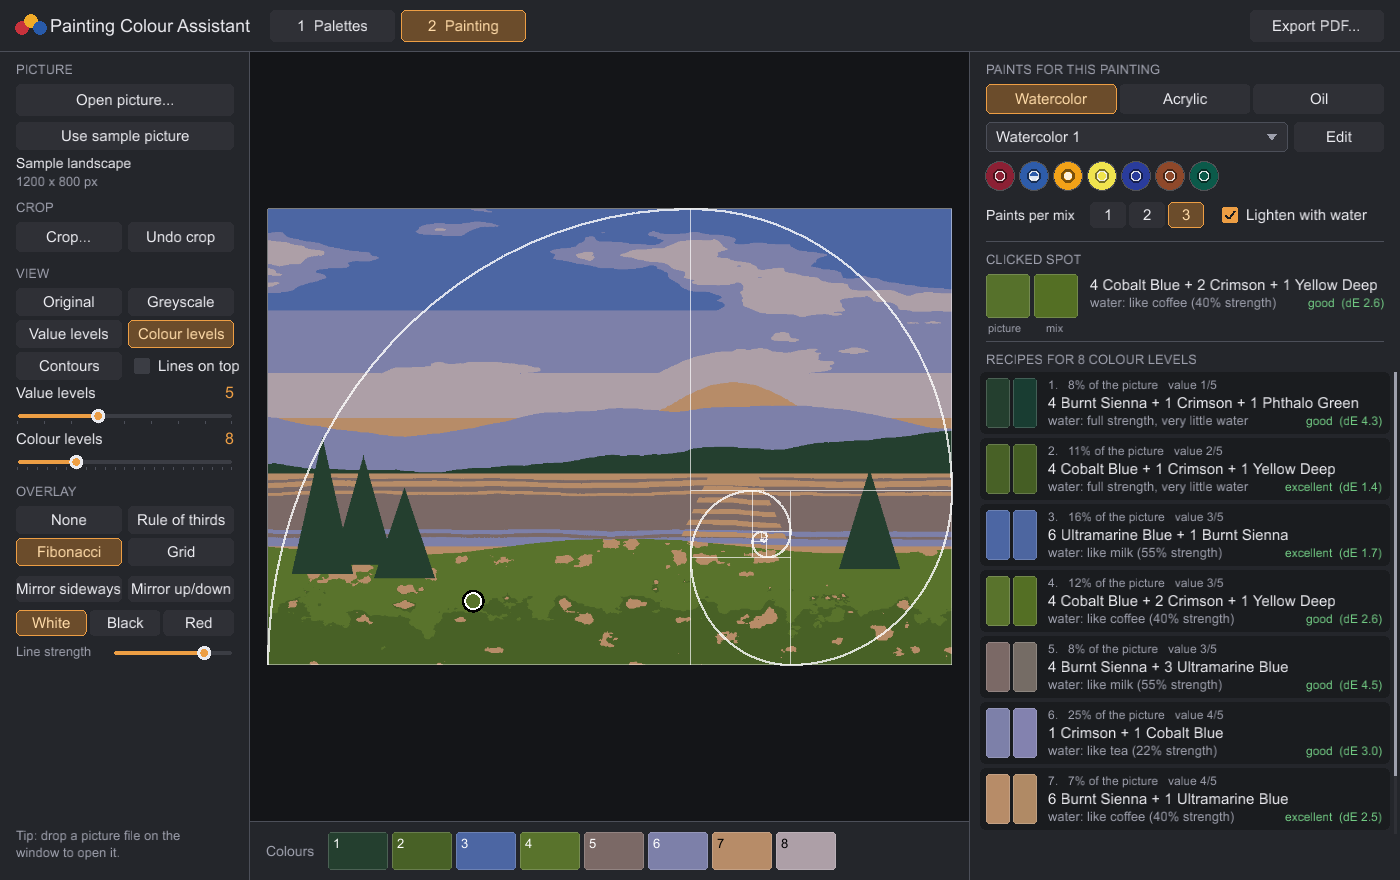
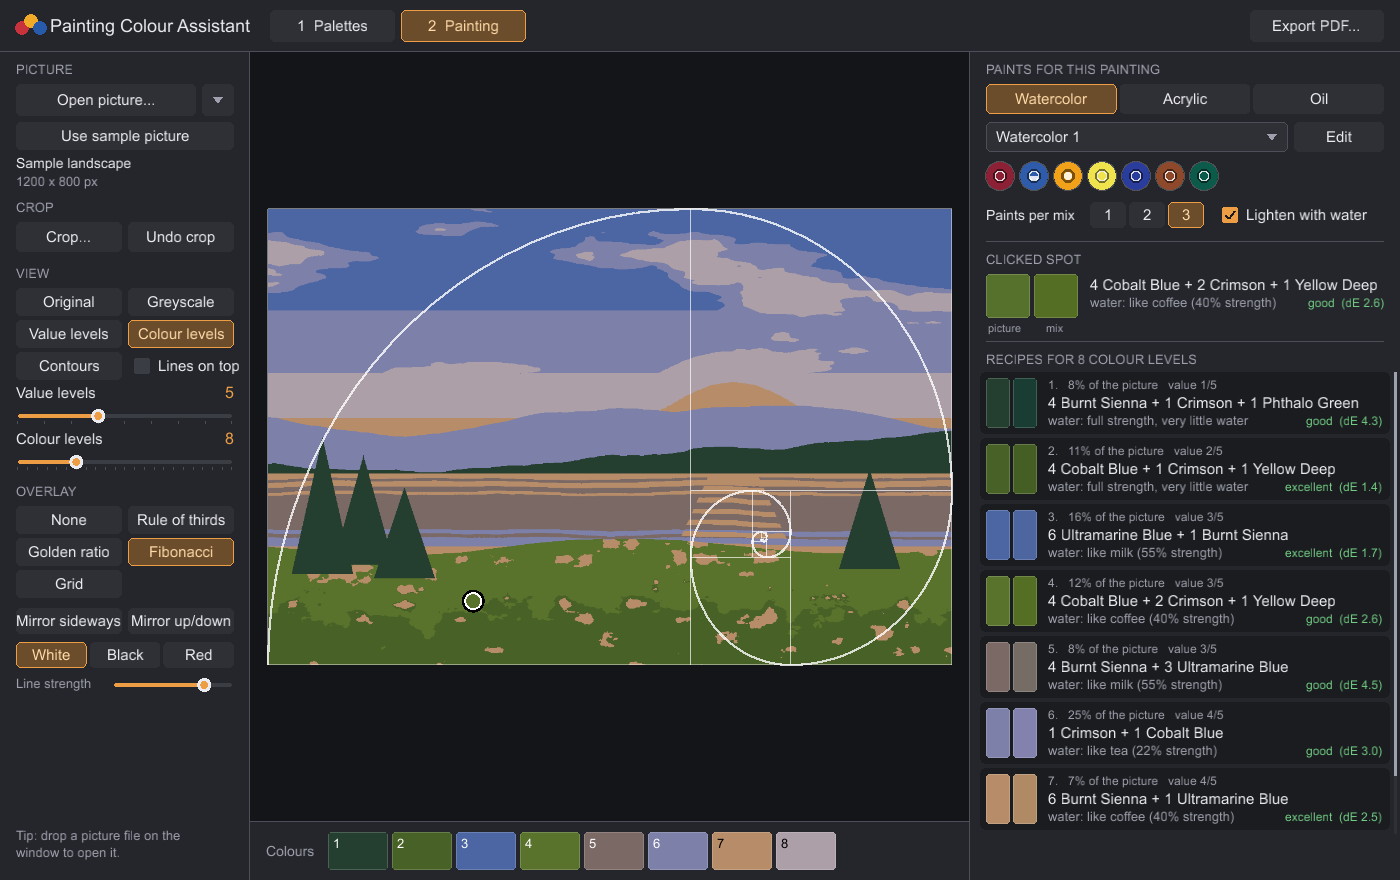
Update handoff documentation and state revision for Overlay::Golden feature
- Incremented state revision to 8.
- Updated handoff details to reflect the addition of Overlay::Golden, including phi grid and new button configurations.
- Added new journal entries for 2026-11-18 and created a new journal file for 2026-11-19 documenting UI interactions and tool calls.
- Enhanced documentation in MECHANICS.md, mechanics.json, README.md, and CLAUDE.md to include details about the new overlay feature.

Changed region(s): [[0.0, 0.6136, 0.1843, 0.7977], [0.0307, 0.092, 0.1229, 0.1227]]

diff --git a/app/src/grid.rs b/app/src/grid.rs
@@ -1,4 +1,5 @@
-//! Composition overlays drawn over the picture: rule of thirds, Fibonacci spiral, square grid.
+//! Composition overlays drawn over the picture: rule of thirds, golden ratio grid,
+//! Fibonacci spiral, square grid.
 
 use macroquad::prelude::*;
 use serde::{Deserialize, Serialize};
@@ -9,10 +10,13 @@ pub enum Overlay {
     Thirds,
     Fibonacci,
     Grid,
+    /// Phi grid: lines at 1/phi^2 and 1/phi of the width and height.
+    Golden,
 }
 
 impl Overlay {
-    pub const ALL: [Overlay; 4] = [Overlay::None, Overlay::Thirds, Overlay::Fibonacci, Overlay::Grid];
+    /// Order of the overlay buttons.
+    pub const ALL: [Overlay; 5] = [Overlay::None, Overlay::Thirds, Overlay::Golden, Overlay::Fibonacci, Overlay::Grid];
 }
 
 #[derive(Clone, Copy, PartialEq, Debug, Serialize, Deserialize)]
@@ -59,6 +63,21 @@ pub fn draw_overlay(r: Rect, s: &OverlaySettings, label: &dyn Fn(&str, f32, f32,
                 for j in 1..3 {
                     let p = vec2(r.x + r.w * i as f32 / 3.0, r.y + r.h * j as f32 / 3.0);
                     draw_circle_lines(p.x, p.y, 7.0, 1.5, c);
+                }
+            }
+        }
+        Overlay::Golden => {
+            // 0.382 and 0.618: the picture split so the larger part relates to the smaller as the whole to the larger
+            let cuts = [1.0 - 1.0 / PHI, 1.0 / PHI];
+            for t in cuts {
+                let x = r.x + r.w * t;
+                let y = r.y + r.h * t;
+                line(x, r.y, x, r.y + r.h, 1.5, c);
+                line(r.x, y, r.x + r.w, y, 1.5, c);
+            }
+            for tx in cuts {
+                for ty in cuts {
+                    draw_circle_lines(r.x + r.w * tx, r.y + r.h * ty, 7.0, 1.5, c);
                 }
             }
         }

diff --git a/app/src/app/painting_view.rs b/app/src/app/painting_view.rs
@@ -139,15 +139,24 @@ impl App {
 
         ui.header("OVERLAY", x, y);
         y += 10.0;
-        let ids = ["overlay_none", "overlay_thirds", "overlay_fib", "overlay_grid"];
-        let short = ["None", "Rule of thirds", "Fibonacci", "Grid"];
+        let ids = ["overlay_none", "overlay_thirds", "overlay_golden", "overlay_fib", "overlay_grid"];
+        let short = ["None", "Rule of thirds", "Golden ratio", "Fibonacci", "Grid"];
         for (i, k) in Overlay::ALL.iter().enumerate() {
             let br = Rect::new(x + (i % 2) as f32 * (half + 6.0), y + (i / 2) as f32 * 32.0, half, 28.0);
             if ui.button_ex(ids[i], br, short[i], self.overlay.kind == *k) {
                 self.overlay.kind = *k;
             }
+            if *k == Overlay::Golden {
+                ui.tooltip("overlay_golden_tip", br, || {
+                    vec![
+                        ("Golden ratio grid (phi grid)".to_string(), TEXT),
+                        ("Lines at 38.2% and 61.8% of the width and height:".to_string(), MUTED),
+                        ("a tighter, calmer placement than the rule of thirds.".to_string(), MUTED),
+                    ]
+                });
+            }
         }
-        y += 70.0;
+        y += 102.0;
         match self.overlay.kind {
             Overlay::Grid => {
                 ui.text("Cells on the long side", x, y + 4.0, 14.0, TEXT);

diff --git a/app/src/selftest.rs b/app/src/selftest.rs
@@ -165,6 +165,12 @@ impl SelfTest {
             let ok = app.overlay.kind == Overlay::Fibonacci && app.overlay_segments > 20;
             res(r, "overlay_fibonacci", ok, format!("Fibonacci spiral drawn with {} line segments", app.overlay_segments));
         })));
+        q.push_back(Click("overlay_golden"));
+        q.push_back(Wait(2));
+        q.push_back(Check(Box::new(|app, _ui, r| {
+            let ok = app.overlay.kind == Overlay::Golden && app.overlay_segments == 4;
+            res(r, "overlay_golden", ok, format!("golden ratio grid drawn with {} lines at 38.2% and 61.8%", app.overlay_segments));
+        })));
         q.push_back(Click("overlay_grid"));
         q.push_back(Wait(2));
         q.push_back(Check(Box::new(|app, _ui, r| {

diff --git a/investigation.cany/investigation/handoff.md b/investigation.cany/investigation/handoff.md
@@ -1,3 +1,3 @@
 # Handoff
 
-Turns so far: first build; contours view + "Lines on top"; value-box percentage caption/tooltip; now Export PDF. New: src/pdf.rs (hand-written PDF writer: JPEG DCTDecode images, rects/circles/lines, Helvetica/Helvetica-Bold with AFM widths, WinAnsi text), src/app/export.rs (A4 brochure: cover with original + settings; value study + scale + contours same size; palette table + 1:1 mixing chart + lightening steps; colour-levels picture + recipe per level with chosen paints-per-mix + clicked spot). Top-bar button id export_pdf uses rfd save dialog (name + folder, .pdf appended), App::export_path_override for self-test (temp dir). Self-test step export_pdf (14/14 pass). Rendered pages checked via swift PDFKit script (/tmp/pdfpages/render.swift; poppler not installed). km describe_lighten: load>=0.9 -> "water: full strength, very little water". Docs updated: MECHANICS.md, mechanics.json, README.md, CLAUDE.md (architecture line). Not committed. The save dialog itself wasn't exercised by hand.
+Latest turn: added Overlay::Golden (phi grid, lines at 0.382/0.618 with rings at crossings), appended at the END of the Overlay enum because OverlaySettings is serialised in recent.json (recent.rs added by the user since last turn). Button id overlay_golden (+ tooltip id overlay_golden_tip), overlay buttons are now a 3-row 2-column grid (Overlay::ALL order: None, Thirds, Golden, Fibonacci, Grid). Self-test step overlay_golden; 20/20 steps pass. Docs updated: MECHANICS.md, mechanics.json, README.md, CLAUDE.md (grid.rs line). Not committed. Earlier: PDF export (pdf.rs, app/export.rs), contours, value-scale caption.

diff --git a/app/MECHANICS.md b/app/MECHANICS.md
@@ -89,8 +89,9 @@ its masstone colour (full strength), its transparency and its tinting strength.
 
 | What | Value | Source |
 |---|---|---|
-| Kinds | None, Rule of thirds, Fibonacci spiral, Grid | request |
+| Kinds | None, Rule of thirds, Golden ratio, Fibonacci spiral, Grid | request |
 | Rule of thirds | lines at 1/3 and 2/3, rings (7 px) at the four crossings | estimated |
+| Golden ratio grid | lines at 1/phi^2 = 0.382 and 1/phi = 0.618 of width and height, rings (7 px) at the four crossings | request (golden ratio grid); drawing estimated |
 | Fibonacci spiral | rectangles cut at 1/phi (phi = 1.618034) of the side, 12 steps, quarter-ellipse arcs, stretched to the picture; portrait pictures start with a horizontal cut; mirror sideways / up-down | estimated |
 | Grid | square cells, default 6 on the long side, range 2 to 20, optional diagonals, column letters and row numbers | estimated |
 | Line colour | White, Black, Red; strength 0.15 to 1.0, default 0.8 | estimated |

diff --git a/CLAUDE.md b/CLAUDE.md
@@ -68,7 +68,8 @@ cargo run -- <image path>                     # open with a picture
   stores the open picture's settings each frame no mouse button is held, and in `set_image`
   before switching; `open_path` restores them. A new per-picture setting goes in
   `PictureSettings`, `App::picture_settings` and `App::apply_settings`.
-- `grid.rs` – rule of thirds, Fibonacci spiral, square grid overlays.
+- `grid.rs` – rule of thirds, golden ratio (phi) grid, Fibonacci spiral, square grid overlays.
+  `Overlay` is serialised in `recent.json`: add new kinds at the end of the enum.
 - `pdf.rs` – minimal PDF writer (JPEG images, shapes, Helvetica text with built-in widths).
   `app/export.rs` lays out the reference brochure; "Export PDF" uses the rfd save dialog,
   or `App::export_path_override` (set to a temp file by the self-test).

diff --git a/README.md b/README.md
@@ -20,7 +20,8 @@ Kubelka-Munk mixing recipes for every colour, made from the paints in your own p
   contours: a line drawing of the picture's edges with adjustable detail, which can also
   be drawn on top of any other view.
 - **Crop** – free or fixed aspect ratios (1:1, 4:5, 3:4, 2:3, 5:4, 4:3, 3:2, 16:9), with undo.
-- **Composition overlays** – rule of thirds, Fibonacci spiral (mirrorable) or a square grid
+- **Composition overlays** – rule of thirds, golden ratio grid (lines at 38.2% and 61.8%),
+  Fibonacci spiral (mirrorable) or a square grid
   with optional diagonals and cell labels.
 - **Recently opened** – the arrow beside *Open picture...* lists the last 10 pictures,
   so you can go back to an earlier painting in one click. Each picture remembers its own
